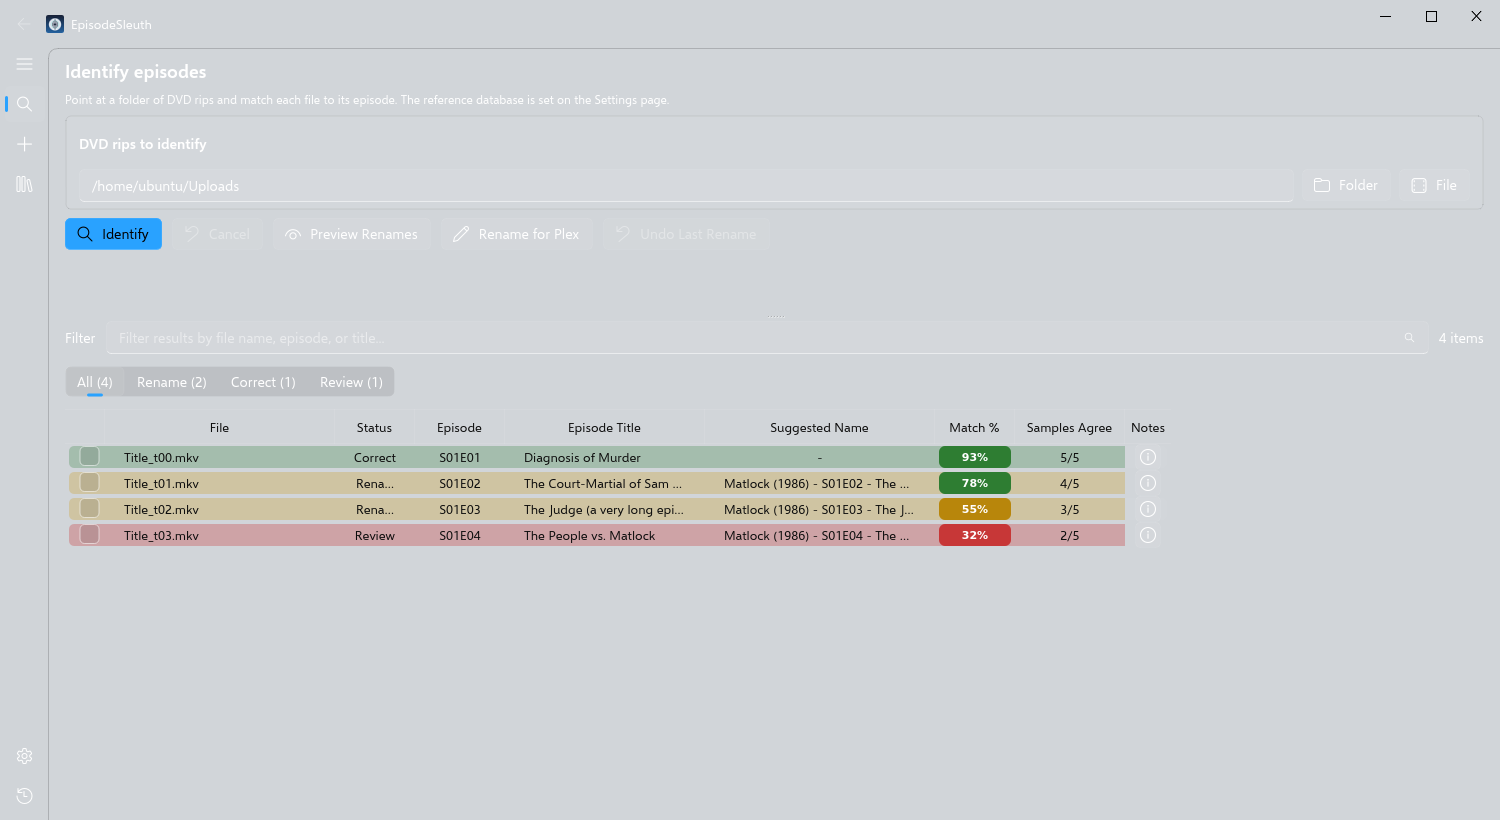
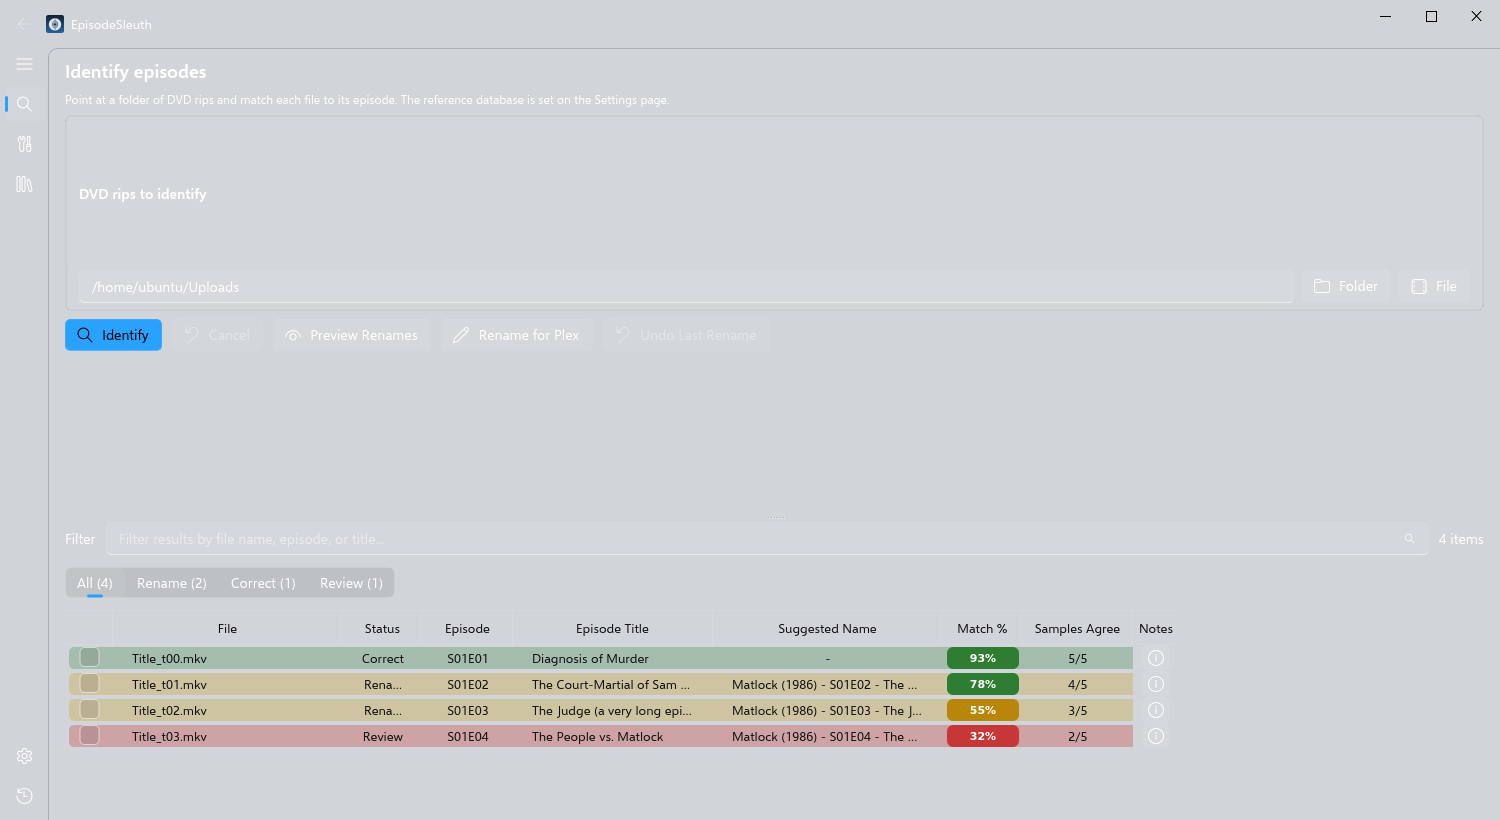
v1.08b: fix Identify status/duration logic, checkbox clipping, MSIX version
- matcher: decouple naming verdict from duration/runtime mismatches. A
  phonetically confident match now yields rename/correct even when the
  listed runtime differs (broadcast-slot quirk, e.g. 45m episode in a
  60m slot); the length gap is reported as a note instead of forcing
  Review. Weak/ambiguous matches still flag Review.
- identify table: widen the fixed checkbox column (32->48px) so the
  qfluentwidgets delegate (draws at cell_x+15, 19px wide) no longer
  clips the indicator; never let a stale saved width override the fixed
  checkbox/notes columns.
- build_msix.ps1: normalise MSIX Identity/@Version to 4 integer parts
  with no leading zeros (1.08.0.0 -> 1.8.0.0), fixing the MakeAppx
  'violates pattern constraint' failure that broke every 1.0Xb MSIX.
- bump __version__ to 1.08b; update duration test for new behavior.

diff --git a/engine/matcher.py b/engine/matcher.py
@@ -427,6 +427,17 @@ def identify_one(path: str, db_path: str, fp_cfg: FingerprintConfig,
                 notes_parts.append(
                     f"ambiguous: runner-up within {runner_up_margin:.0%}")
 
+        # Whether the phonetic match itself is trustworthy. This is decided
+        # purely by the match-quality gates above (no match / low confidence /
+        # ambiguous near-tie). A duration or runtime discrepancy must NOT
+        # downgrade a phonetically confident match to "review": those lengths
+        # are often off because the reference runtime is a broadcast slot
+        # (e.g. a 45m episode listed in a 60m slot) rather than evidence of a
+        # wrong-episode match. When the match is confident we can still assert
+        # the correct name (rename / correct) and report the length gap as a
+        # note instead of a blocking review flag.
+        confident_match = best is not None and not needs_review
+
         # Optional runtime sanity check
         if best is not None and runtimes:
             exp = runtimes.get(best.episode_id) or runtimes.get(
@@ -434,7 +445,8 @@ def identify_one(path: str, db_path: str, fp_cfg: FingerprintConfig,
             if exp:
                 diff = abs(duration / 60.0 - float(exp))
                 if diff > args.runtime_tolerance:
-                    needs_review = True
+                    if not confident_match:
+                        needs_review = True
                     notes_parts.append(
                         f"runtime {duration/60:.0f}m vs expected {exp}m")
 
@@ -459,14 +471,23 @@ def identify_one(path: str, db_path: str, fp_cfg: FingerprintConfig,
             if expected_sec and expected_sec > 0:
                 rel_diff = abs(duration - expected_sec) / float(expected_sec)
                 if rel_diff > tol:
-                    if dur_source in ("tvmaze", "manual"):
-                        # Authoritative runtime (TVMaze lookup or a manual edit):
-                        # a large mismatch is
-                        # a strong sign of a wrong-episode match -> flag review.
+                    if dur_source in ("tvmaze", "manual") and not confident_match:
+                        # Authoritative runtime (TVMaze lookup or a manual edit)
+                        # AND a weak phonetic match: a large mismatch is a strong
+                        # sign of a wrong-episode match -> flag review.
                         needs_review = True
                         notes_parts.append(
                             f"duration mismatch: file is {duration/60:.0f}m, "
                             f"episode should be ~{expected_sec/60:.0f}m "
+                            f"({rel_diff*100:.0f}% off)")
+                    elif dur_source in ("tvmaze", "manual"):
+                        # Phonetically confident but the lengths differ. This is
+                        # usually a listed-runtime quirk (broadcast slot vs actual
+                        # content), not a wrong match, so surface it as a note and
+                        # let the naming verdict (rename/correct) stand.
+                        notes_parts.append(
+                            f"length differs: file is {duration/60:.0f}m vs "
+                            f"listed ~{expected_sec/60:.0f}m "
                             f"({rel_diff*100:.0f}% off)")
                     else:
                         # Subtitle-derived runtime is only a rough proxy (a
@@ -485,8 +506,8 @@ def identify_one(path: str, db_path: str, fp_cfg: FingerprintConfig,
             ext = os.path.splitext(fname)[1]
             suggested_filename = build_suggested_filename(
                 best.title, best.season, best.episode, best.episode_title, ext)
-            if needs_review:
-                # Not confident enough to assert the correct name.
+            if not confident_match:
+                # Not confident enough in the match to assert the correct name.
                 name_status = "unknown"
             elif (file_season is not None and file_episode is not None
                   and file_season == best.season

diff --git a/gui/pages/identify.py b/gui/pages/identify.py
@@ -415,8 +415,12 @@ class IdentifyInterface(QWidget):
         hdr.setStretchLastSection(False)
         hdr.setSectionResizeMode(self.C_CHECK, QHeaderView.Fixed)
         hdr.setSectionResizeMode(self.C_NOTES, QHeaderView.Fixed)
+        # The qfluentwidgets table delegate paints the checkbox at
+        # cell_x + 15 spanning 19px (right edge at +34), so a 32px column
+        # clips it. Give the fixed checkbox column enough room to show the
+        # whole indicator with a little breathing space on both sides.
         widths = {
-            self.C_CHECK: 32, self.C_FILE: 230, self.C_STATUS: 80,
+            self.C_CHECK: 48, self.C_FILE: 230, self.C_STATUS: 80,
             self.C_EPISODE: 90, self.C_TITLE: 200, self.C_SUGGESTED: 230,
             self.C_MATCH: 80, self.C_AGREE: 110, self.C_NOTES: 46,
         }
@@ -624,10 +628,16 @@ class IdentifyInterface(QWidget):
     def _restore_column_widths(self) -> None:
         """Apply any column widths saved in a previous session."""
         saved = self._ident_get("column_widths", {}) or {}
+        # The checkbox and notes columns are Fixed width and sized to fit their
+        # painted glyphs; never let a stale saved value (e.g. an old 32px
+        # checkbox width that clipped the indicator) override them.
+        fixed_cols = {self.C_CHECK, self.C_NOTES}
         for col_str, width in saved.items():
             try:
                 col, w = int(col_str), int(width)
             except (TypeError, ValueError):
+                continue
+            if col in fixed_cols:
                 continue
             if 0 <= col < self.table.columnCount() and w > 0:
                 self.table.setColumnWidth(col, w)

diff --git a/tests/test_duration.py b/tests/test_duration.py
@@ -117,16 +117,22 @@ def test_subtitle_source_mismatch_does_not_flag_review(
     assert "duration mismatch" not in result.notes
 
 
-def test_tvmaze_source_mismatch_flags_review(
+def test_tvmaze_mismatch_with_confident_match_does_not_flag_review(
         monkeypatch, ref_db_path, engine_cfg, fp_cfg, sample_audio,
         ep1_noisy_transcript):
-    """A large mismatch against an authoritative TVMaze runtime flags review."""
+    """A TVMaze runtime mismatch must NOT downgrade a *confident* phonetic
+    match to review: listed runtimes are often broadcast slots (e.g. a 45m
+    episode listed in a 60m slot), so a confident match stays actionable
+    (rename/correct) and the length gap is reported only as a note."""
     _set_all_durations(ref_db_path, 120, "tvmaze")  # 2m authoritative vs ~23m
     result = _identify(monkeypatch, ref_db_path, engine_cfg, fp_cfg,
                        sample_audio, ep1_noisy_transcript, duration=1400.0)
     assert result.guess is not None
-    assert result.needs_review
-    assert "duration mismatch" in result.notes
+    # Sample matches with high confidence, so the length gap is a note only.
+    assert not result.needs_review
+    assert "length differs" in result.notes
+    # The naming verdict is still asserted (file has no S/E -> rename).
+    assert result.name_status == "rename"
 
 
 def test_matching_tvmaze_duration_no_flag(

diff --git a/__init__.py b/__init__.py
@@ -15,7 +15,7 @@ when the project root is on ``sys.path`` (which is the case after
 ``pip install -e .`` or when running from the project directory).
 """
 
-__version__ = "1.07b"
+__version__ = "1.08b"
 __author__ = "audio-fingerprint contributors"
 __license__ = "MIT"
 
